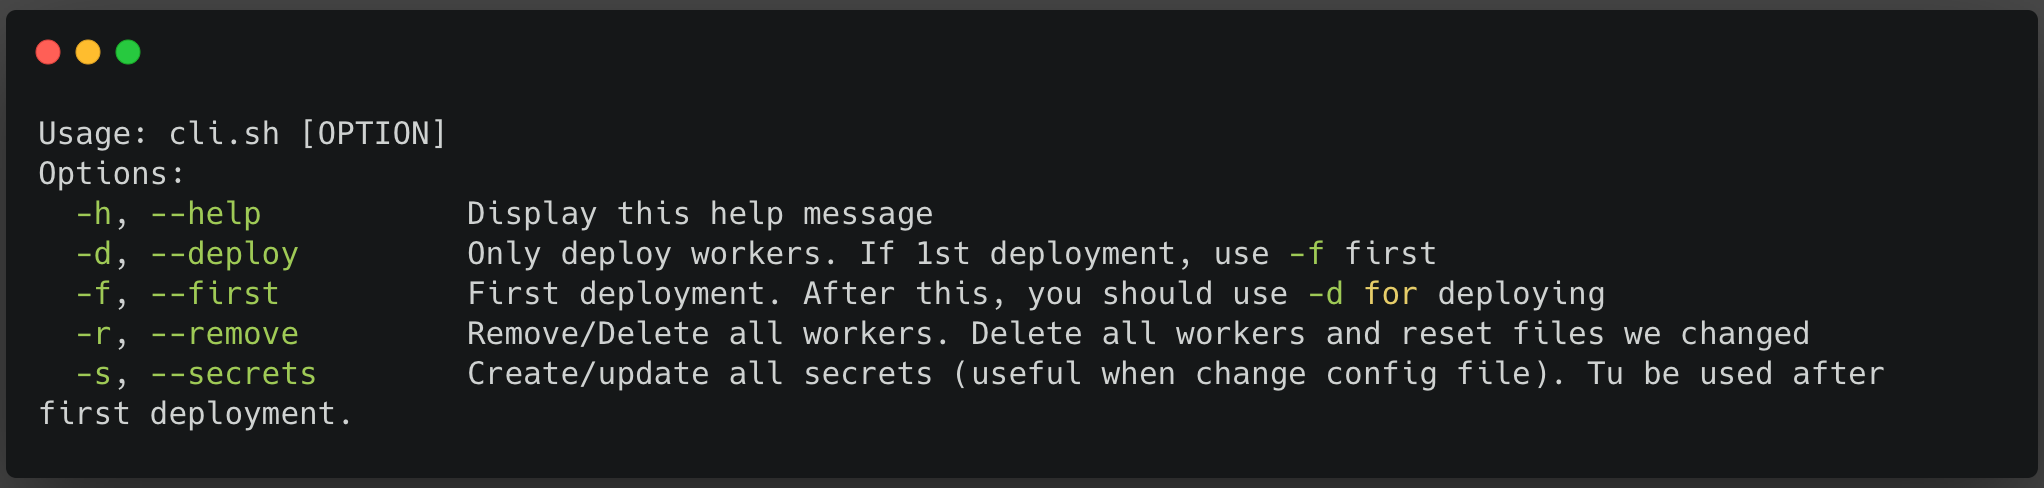
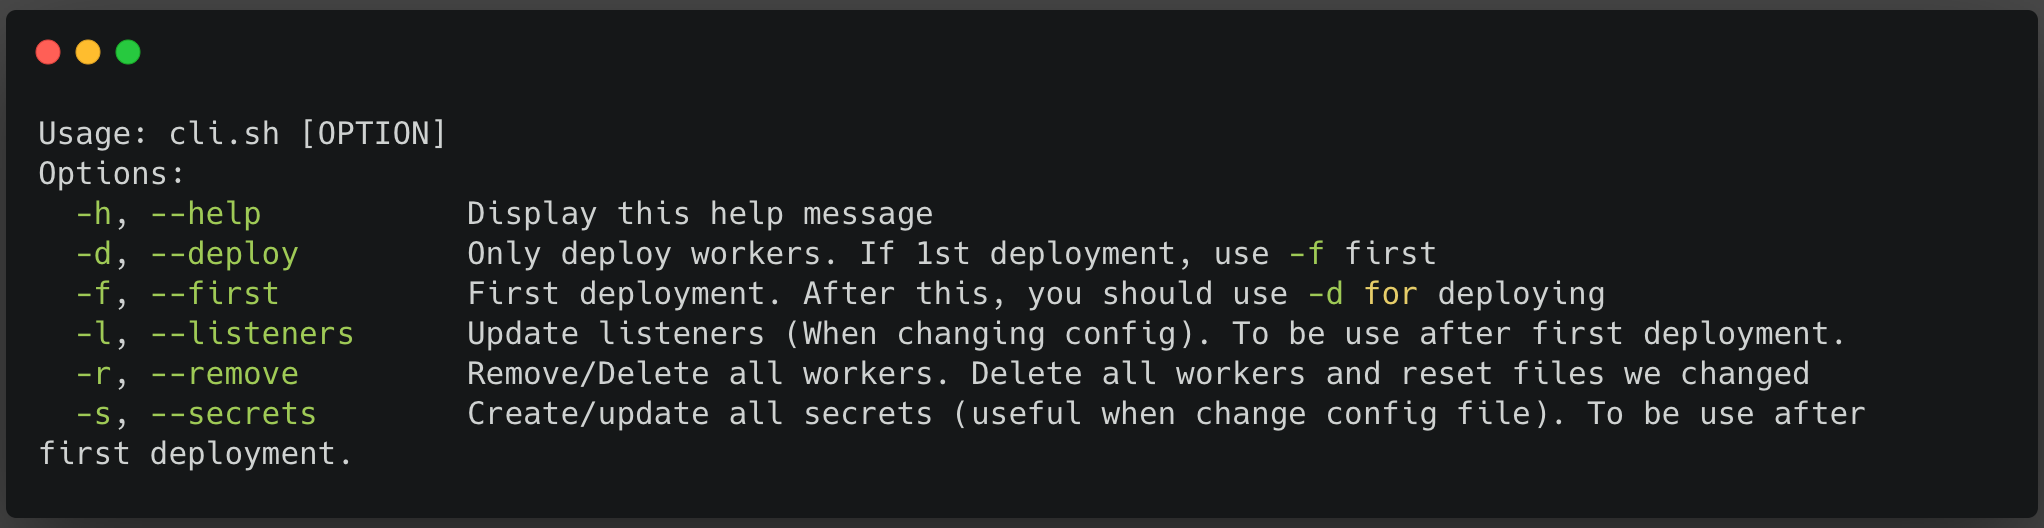
added cli listener option

Changed region(s): [[0.2158, 0.3689, 0.9247, 0.8299], [0.0, 0.2152, 0.2158, 0.8914], [0.0, 0.0615, 0.0616, 0.123]]

diff --git a/README.md b/README.md
@@ -148,6 +148,7 @@ If you want to use custom domain, here is an example:
       "pattern": "worker3.example.com"
     }
   ],
+...
 ```
 
 This configuration will create 4 URLs (Hosts for your C2 profile):
